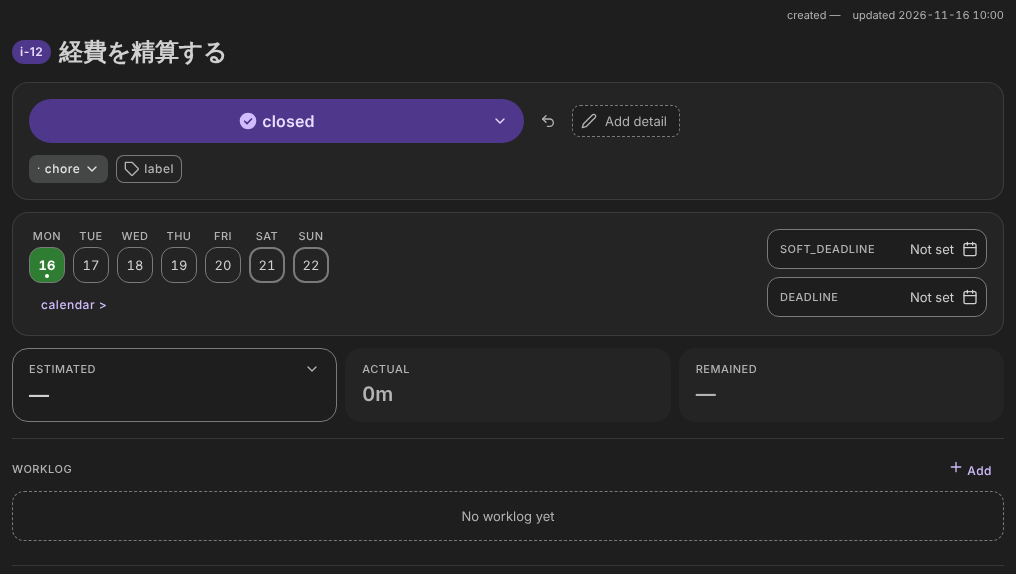
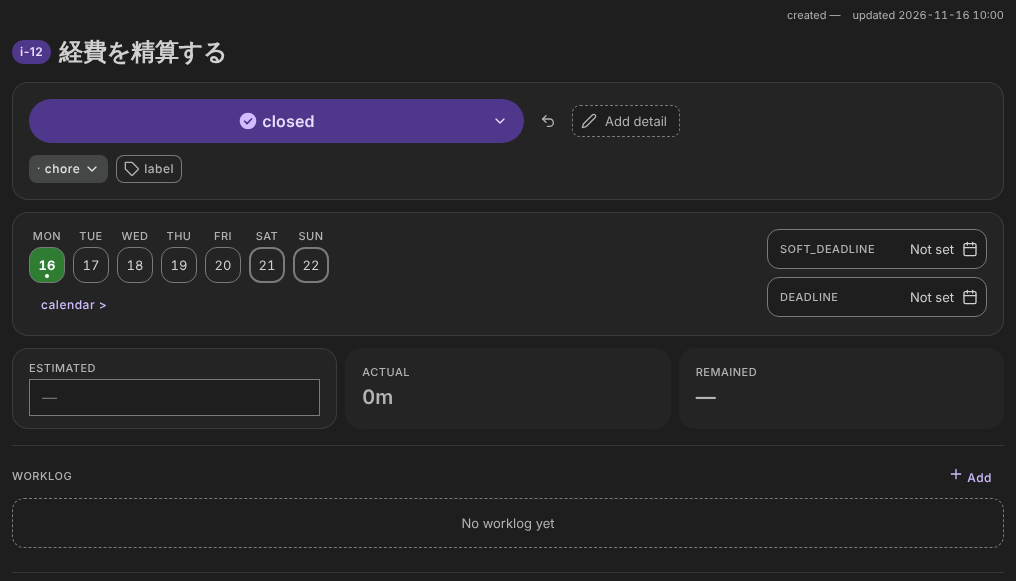
docs(product-guide): issue・routine 画面の画面例を、estimated の入力欄と割り当てていない予算に合わせて撮り直す
Claude-Session: https://claude.ai/code/session_01CuQ1tLbQd2tj1iya9UmXMR

diff --git a/pkm-guide/user-experience.html b/pkm-guide/user-experience.html
@@ -912,7 +912,7 @@ ADR へのリンク。
 <li>priority と label</li>
 <li>今日からの 7 日のストリップ（押すとその日を Calendar の日にする。もう一度押すと消す。「calendar &gt;」で先の日も選べる）、tickler（その日に Inbox に戻す。Project では、閉じていないサブの期間の始まりのいちばん早い日以前だけを選べ、期間がすでに始まっていれば理由を出して付けさせない）、soft deadline・deadline</li>
 <li>サブイシューの一覧（同じ Markdown に作る。題・状態・期間と依存を持ち、閉じたものは既定では隠す）。今日のボードに載せる Pick と、載った後の再生・停止を表示する。Pick は Next のサブ（open か in-progress で、Calendar の日がなく、親が Next で、今日が期間に入る）にだけ出し、期間がないか今日が期間の外のサブには、代わりに Timeline のボタンを出す（押すと何も書き換えず、Timeline でそのサブの行を目立たせる）。status のボタンの Start は、今日のボードに載せたものにだけ出す。Calendar の日を持つ issue にはサブを作れず、このカードを出さない。Timeline で期間と依存を見て直せる。見積もりがなく期間が今日から 14 日のうちにかかるサブには、棒の右に「Estimate」の印を出し、押すと S・M・L から選んで保存する。サブの Edit と本文のカードには、見積もりのサイズのチップ（S 30m・M 2h・L 4h・XL は分けるよう促す）を置く。Inbox（未整理）の Project では、サブの期間を入れられない（Edit・本文のカードの欄は押せず、Timeline は棒を作れず動かせない。理由を出す）。Tickler が先の Project では、Tickler の日より前に始まる期間を置けない。Project を someday にするときは、消えるサブの期間と Calendar の日を並べた確認のダイアログを出す。見出しの Apply preset から<a href="#surfaces-task-presets-md">プリセット</a>を選ぶと、そのサブを末尾に足し、本文を issue の本文の末尾に追記する</li>
-<li>estimated（プリセットか単位付きの入力）、実績、残り</li>
+<li>estimated（入力欄に単位付きで入れる。Enter か欄を離れると保存し、空にすると消す）、実績、残り。サブを持つ issue（Project）では、日付のストリップの場所に、estimated から登録済みのサブの estimated の合計（canceled は除く）を引いた「unallocated」を出す（負なら赤）</li>
 <li>worklog（見出しに Pick（Next の issue だけ。Inbox・Calendar・Tickler・someday には出さない）、ボードに載った後は再生・停止。新しい順に 5 件ずつ。押して編集）</li>
 <li>本文（ふつうのエディタ。新しい issue は ToDo / Description / Note の見出し）</li>
 </ol>
@@ -942,7 +942,7 @@ ADR へのリンク。
 <ul>
 <li>summary と ID で検索し、status・priority・label・期限の範囲・Calendar の日の有無で絞り込む。列で並べ替える。条件をプリセットとして保存できる（端末ごと）</li>
 <li>既定では closed / canceled / someday を隠す</li>
-<li>列: priority、status、status-detail、labels、calendar（Calendar の日）、soft deadline、deadline、estimated</li>
+<li>列: priority、status、status-detail、labels、calendar（Calendar の日）、soft deadline、deadline、estimated（押すと入力欄のダイアログ）</li>
 <li>表示しているセルは押してその場で編集できる。行末の「…」で全項目を編集できる（スマホではここから）</li>
 <li>選んだ行にまとめて Tickler を付けられる。行の「…」から Calendar・Tickler を編集できる</li>
 </ul>
@@ -1162,7 +1162,7 @@ ADR へのリンク。
 <li>くり返し、start、end</li>
 <li>category（default / closing。出す場所）、priority、label</li>
 <li>直近 14 日の結果（closed / canceled / 未記録 / 予定なし）。読み取りだけ</li>
-<li>estimated / total / average</li>
+<li>estimated（入力欄に単位付きで入れる）/ total / average</li>
 <li>worklog、本文</li>
 </ol>
 <p>status、Calendar の日、期限、親子は持たない。</p>
